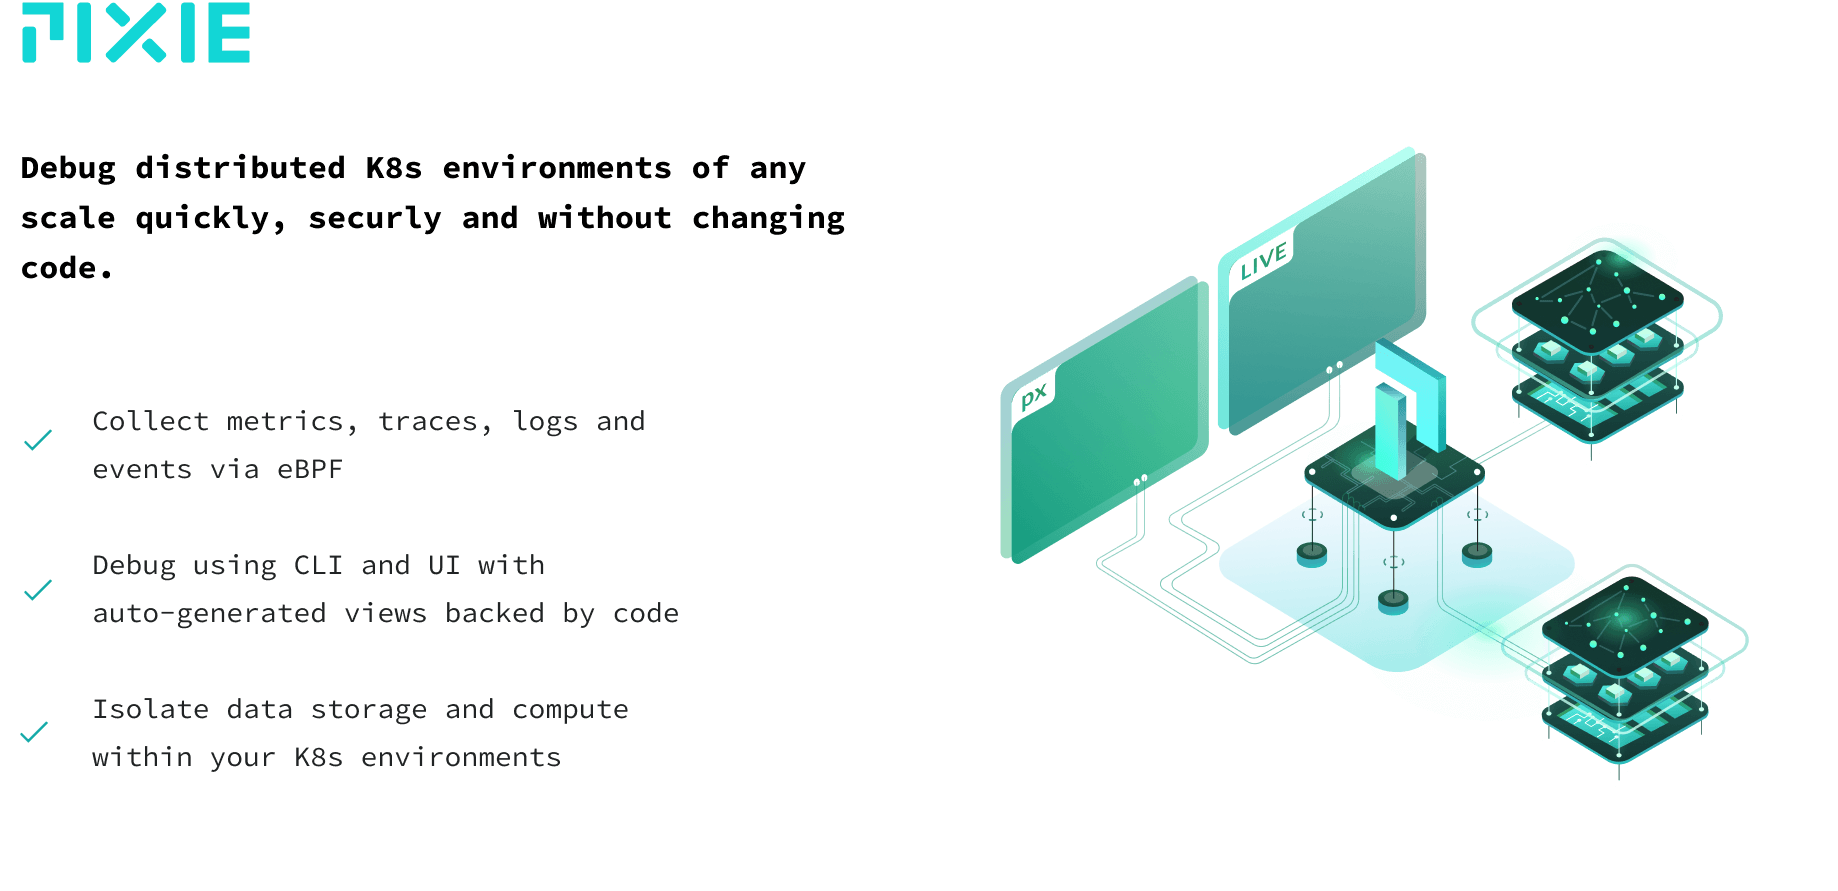
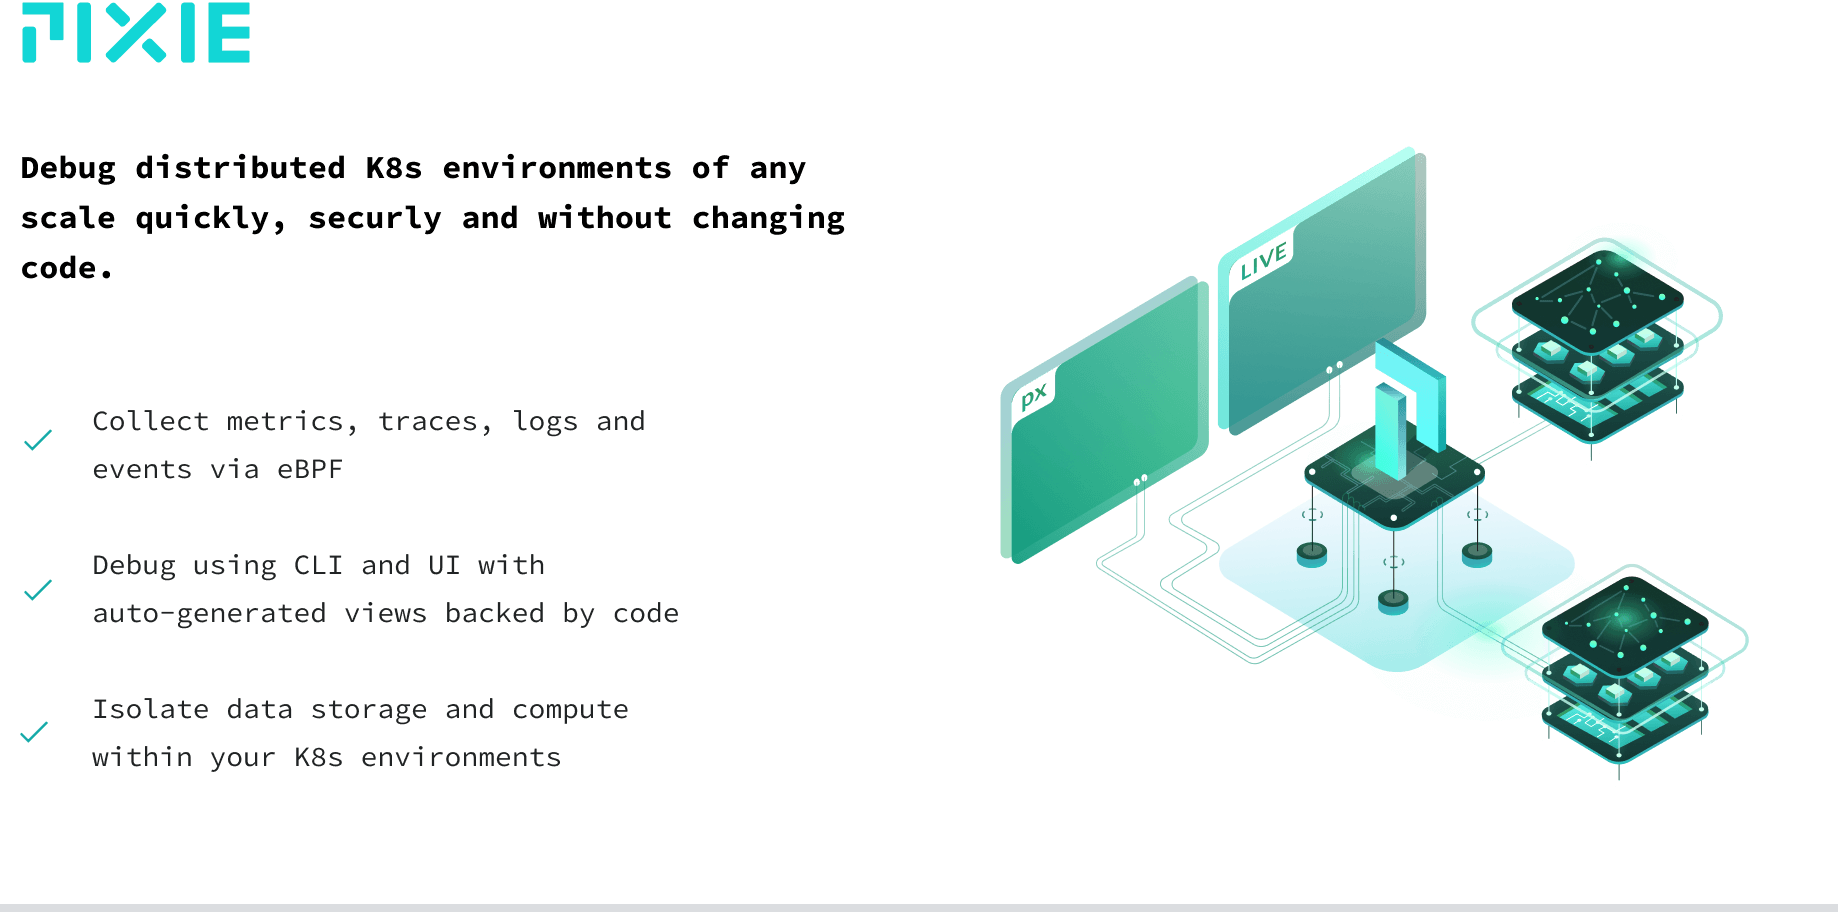
updated_banner

diff --git a/README.md b/README.md
@@ -1,6 +1,6 @@
 <p align="center">
 
-  [![Pixie!](./assets/readme_banner_v2_small.png)](https://pixielabs.ai)
+  [![Pixie!](./assets/readme_banner_v2.png)](https://pixielabs.ai)
 
 </p>
 
